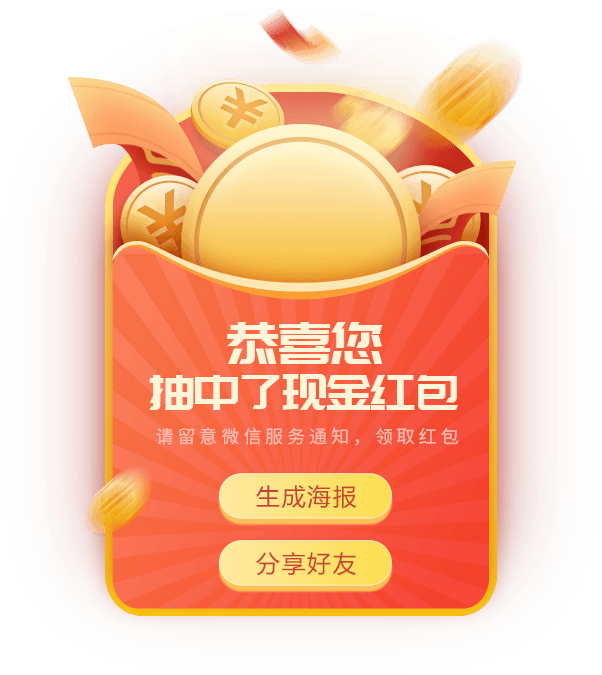
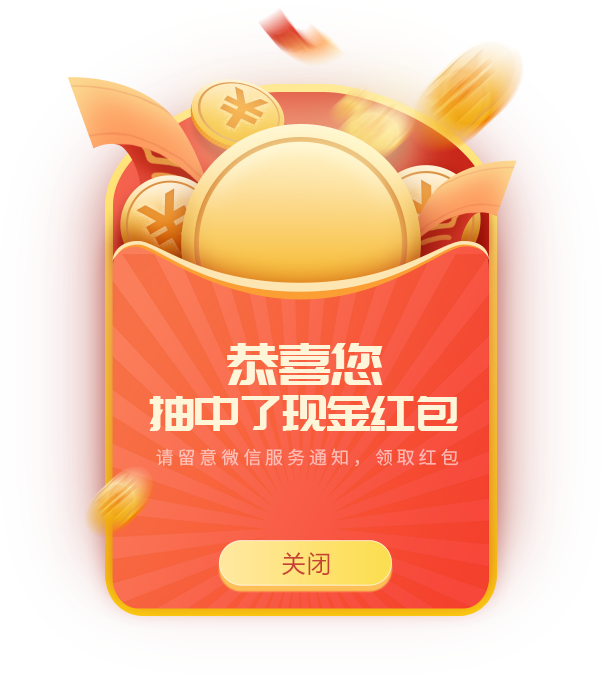
clearRect

Changed region(s): [[0.2392, 0.4667, 0.7774, 0.7778], [0.4186, 0.8089, 0.598, 0.8711]]

diff --git a/src/views/Home.vue b/src/views/Home.vue
@@ -13,7 +13,7 @@
 
             <div class="sence" v-show="gogogoshow">
                 <div style="height:100%">
-                    <img :style="imgStyle" src="../assets/image/long.jpg" style="min-height:100%">
+                    <img :style="imgStyle" src="../assets/image/long1.jpg" style="min-height:100%">
                 </div>
                 <!-- <canvas id="gameStage" :width="width" :height="height"></canvas> -->
                 <canvas id="gameStage2" :width="width" :height="height"></canvas>
@@ -51,7 +51,7 @@ import axios from "axios"
 let img1 = new Image()
 let img2 = new Image()
 let img3 = new Image()
-// img.src = require("../assets/image/long.jpg")
+// img.src = require("../assets/image/long1.jpg")
 img1.src = require("../assets/image/11.png")
 img2.src = require("../assets/image/22.png")
 img3.src = require("../assets/image/33.png")
@@ -221,7 +221,8 @@ export default {
                 data = img3
                 index_img = 0
             }
-
+            
+            this.ctx2.clearRect(0,0,this.mycanvas2.width,this.mycanvas2.height)
             this.ctx2.drawImage(data,-80,BOTTOM_PX)
         },
     },

diff --git a/src/components/lottery-result.vue b/src/components/lottery-result.vue
@@ -19,7 +19,7 @@
             <img v-if="priceIndex === 2 || priceIndex === 7" src="../assets/image/none.png" alt="很抱歉">
 
             <div class="submit-btn">
-                <div class="poster" @click.prevent="poster"></div>
+                <div class="poster" @click.prevent="poster" v-if="priceIndex !== 3"></div>
                 <div class="share" @click.prevent="share"></div>
             </div>
         </div>
@@ -61,6 +61,10 @@ export default {
             this.$store.commit("SET_INDEX", 3)
         },
         share() {
+            if(this.priceIndex === 3){
+                this.cancle()
+                return
+            }
             this.shareBg = true
         },
         async submitInfomation() {

diff --git a/src/views/poster.vue b/src/views/poster.vue
@@ -114,6 +114,10 @@ export default {
             border: 4px solid #fff;
             border-radius: 92px;
             overflow: hidden;
+            img{
+                height: 92px;
+                width: 92px;
+            }
         }
     }
     .center{
